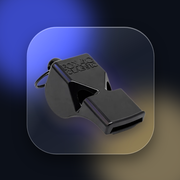
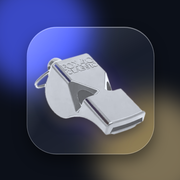
Iconiță: fluier argintiu, vizibil și la dimensiune mică
Claude-Session: https://claude.ai/code/session_0119jX5CRKHW2hPaVCNdqpBb

Changed region(s): [[0.1944, 0.2778, 0.8056, 0.75]]

diff --git a/index.html b/index.html
@@ -10,8 +10,8 @@
 <meta name="apple-mobile-web-app-status-bar-style" content="black-translucent">
 <meta name="apple-mobile-web-app-title" content="Meciuri">
 <link rel="manifest" href="manifest.json">
-<link rel="apple-touch-icon" href="icons/apple-touch-icon.png?v=2">
-<link rel="icon" href="icons/icon-192.png?v=2">
+<link rel="apple-touch-icon" href="icons/apple-touch-icon.png?v=3">
+<link rel="icon" href="icons/icon-192.png?v=3">
 <link rel="preconnect" href="https://fonts.googleapis.com">
 <link rel="preconnect" href="https://fonts.gstatic.com" crossorigin>
 <link href="https://fonts.googleapis.com/css2?family=Inter+Tight:wght@300;400;500;600;700&display=swap" rel="stylesheet">

diff --git a/sw.js b/sw.js
@@ -1,6 +1,6 @@
 // Service worker: păstrează aplicația în cache ca să se deschidă și fără semnal.
 // Datele (Supabase, Apps Script) merg mereu la rețea; ultima listă e salvată de aplicație.
-const CACHE = 'meciuri-v31';
+const CACHE = 'meciuri-v32';
 const SHELL = ['./', './index.html', './manifest.json', './icons/icon-192.png', './icons/apple-touch-icon.png'];
 
 self.addEventListener('install', (e) => {
